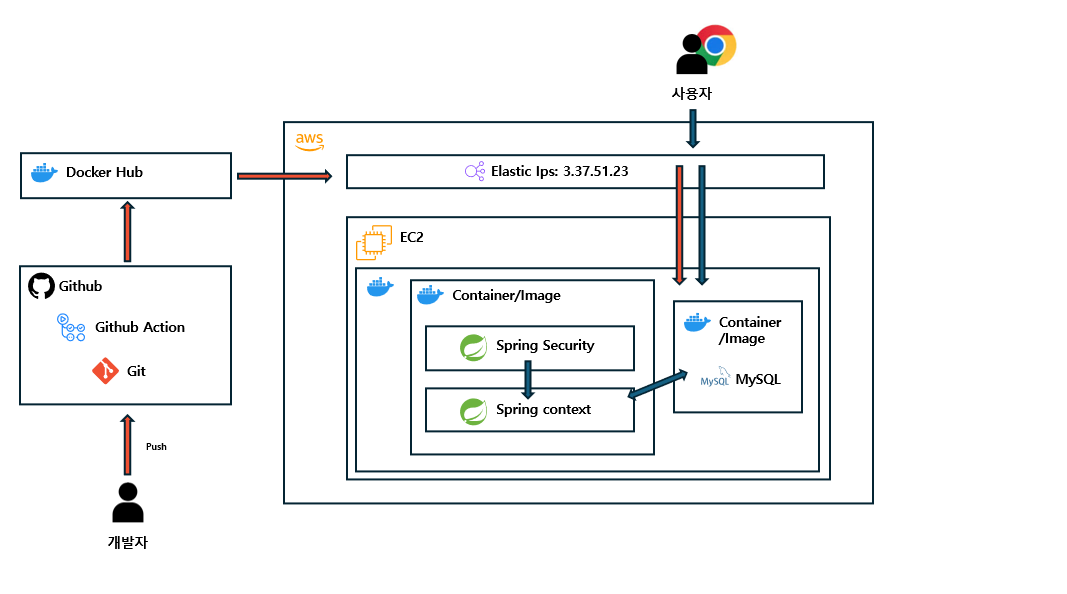
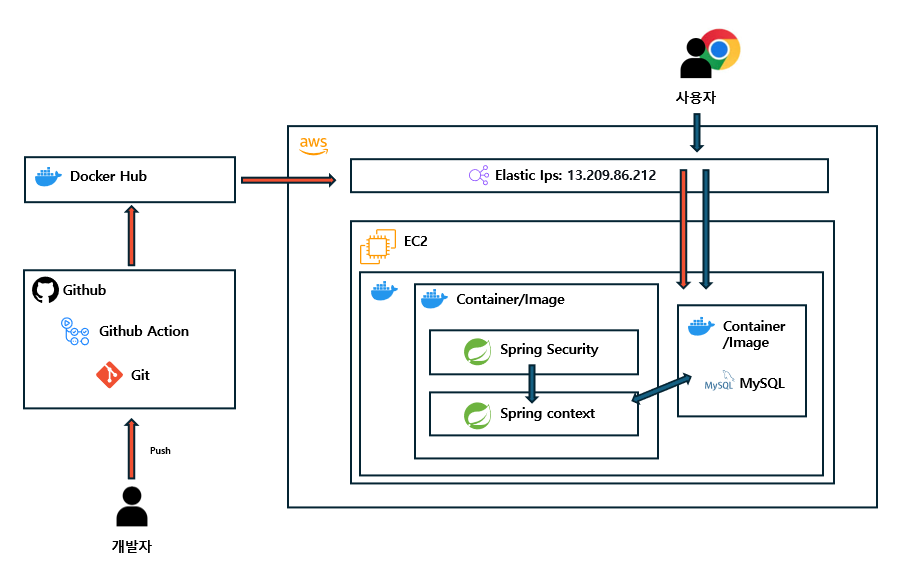
[fix] 배포 ip변경 - README.md 수정 - 시스템 구성도 수정

Changed region(s): [[0.0, 0.0307, 0.9857, 0.9522]]

diff --git a/docs/README.md b/docs/README.md
@@ -1,5 +1,5 @@
-## 📜한달인턴 8기 과제
-[📌배포 링크](http://3.37.51.23:8080/swagger-ui/index.html)
+## 📜바로인턴 9기 과제
+[📌배포 링크](http://13.209.86.212:8080/swagger-ui/index.html)
 - `Junit5`를 이용한 테스트 코드 작성법 이해
 - `Spring Security`를 이용한 `Filter`에 대한 이해
 - `JWT`와 구체적인 알고리즘의 이해
